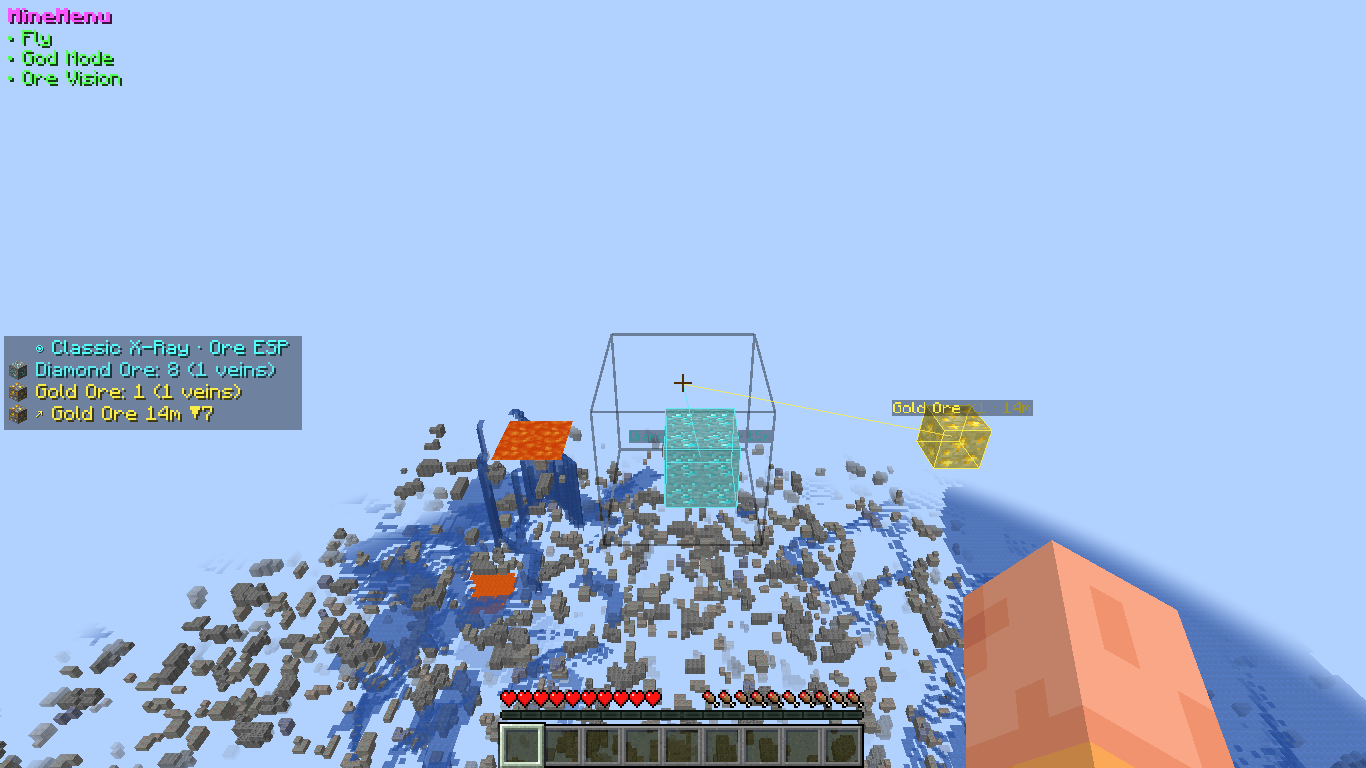
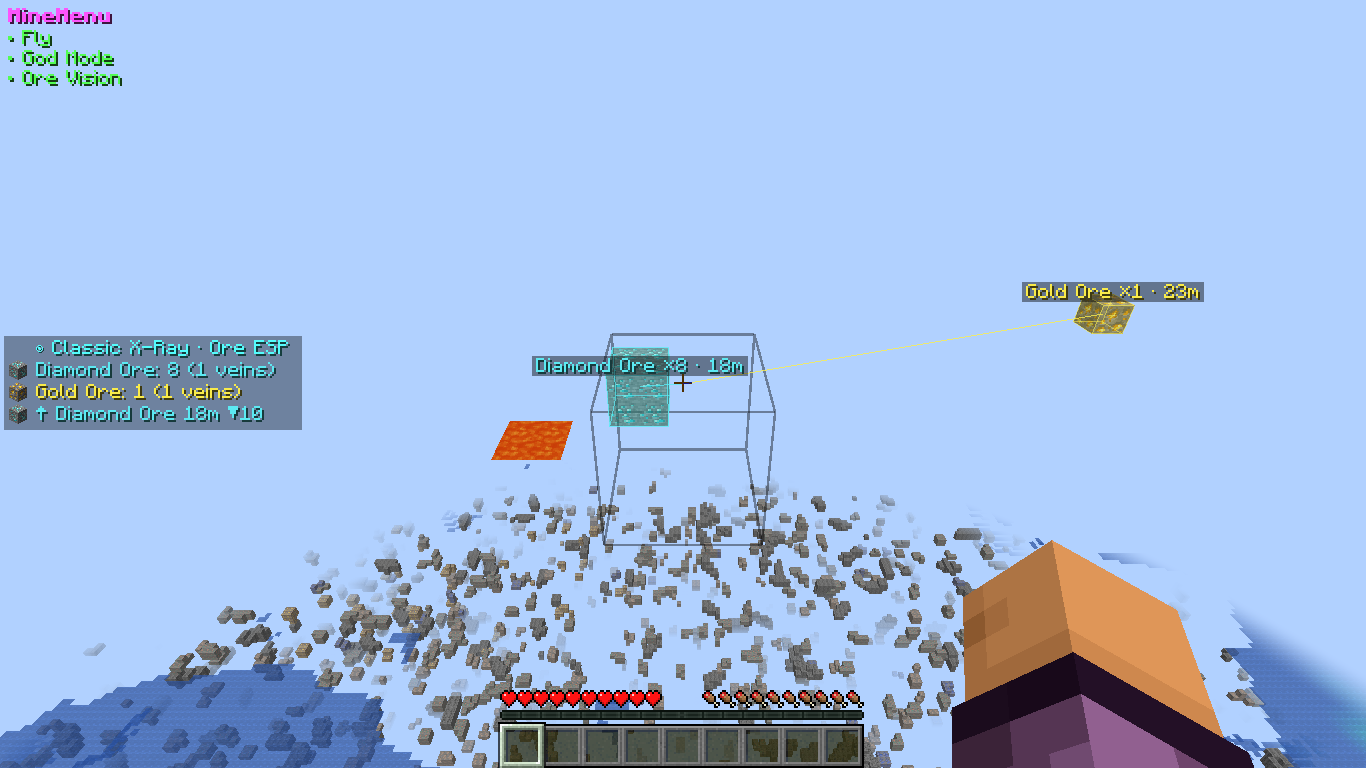
MineMeBoostXray 3.6.0: vein labels on the HUD (work with ImmediatelyFast/Sodium/Iris), robust Classic screen check, fused-outline check runs, test results
Claude-Session: https://claude.ai/code/session_01VbNjxwf62bM8M1s9LeNLAe

diff --git a/minemeboost/src/main/java/com/minexray/render/OverlayRenderer.java b/minemeboost/src/main/java/com/minexray/render/OverlayRenderer.java
@@ -1,7 +1,6 @@
 package com.minexray.render;
 
 import com.minexray.MineXrayClient;
-import com.minexray.XrayActions;
 import com.minexray.XrayConfig;
 import com.minexray.XrayMode;
 import com.minexray.mode.LavaWarning;
@@ -9,18 +8,14 @@ import com.minexray.scan.VeinMerger;
 import com.mojang.blaze3d.systems.RenderSystem;
 import net.fabricmc.fabric.api.client.rendering.v1.WorldRenderContext;
 import net.minecraft.client.MinecraftClient;
-import net.minecraft.client.font.TextRenderer;
 import net.minecraft.client.render.BufferBuilder;
 import net.minecraft.client.render.BufferRenderer;
 import net.minecraft.client.render.BuiltBuffer;
 import net.minecraft.client.render.Camera;
 import net.minecraft.client.render.GameRenderer;
-import net.minecraft.client.render.LightmapTextureManager;
 import net.minecraft.client.render.Tessellator;
-import net.minecraft.client.render.VertexConsumerProvider;
 import net.minecraft.client.render.VertexFormat;
 import net.minecraft.client.render.VertexFormats;
-import net.minecraft.client.util.math.MatrixStack;
 import net.minecraft.entity.Entity;
 import net.minecraft.entity.ItemEntity;
 import net.minecraft.entity.LivingEntity;
@@ -36,18 +31,15 @@ import java.util.ArrayList;
 import java.util.List;
 
 /**
- * What's drawn fresh every frame (it moves or is short-lived): tracers to the nearest veins, vein labels,
+ * What's drawn fresh every frame (it moves or is short-lived): tracers to the nearest veins (labels: LabelRenderer),
  * Entity ESP boxes, the 30-second "Show" highlights from the scanner and the Lava Warning box.
  */
 public final class OverlayRenderer {
     private static final int MAX_ENTITIES = 300;
-    private static final int MAX_LABELS = 24;
     private record Highlight(BlockPos pos, int color, long until) {
     }
 
     private static final List<Highlight> highlights = new ArrayList<>();
-    /** Labels get their own buffer: mods like ImmediatelyFast take over the game's shared text batching. */
-    private static net.minecraft.client.util.BufferAllocator labelBuffer;
     /** For tests. */
     public static int drawnEntities;
 
@@ -121,9 +113,6 @@ public final class OverlayRenderer {
             RenderSystem.disableBlend();
             RenderSystem.enableDepthTest();
         }
-        if (esp && config.labels && !veins.isEmpty()) {
-            drawLabels(context, veins);
-        }
     }
 
     private static void drawEntities(BufferBuilder buffer, Matrix4f matrix, Vec3d cam, XrayConfig config, float tickDelta) {
@@ -175,33 +164,6 @@ public final class OverlayRenderer {
             return config.entityPassive ? 0x40FF40 : -1;
         }
         return -1;
-    }
-
-    private static void drawLabels(WorldRenderContext context, List<VeinMerger.Vein> veins) {
-        MinecraftClient client = MinecraftClient.getInstance();
-        TextRenderer text = client.textRenderer;
-        if (labelBuffer == null) {
-            labelBuffer = new net.minecraft.client.util.BufferAllocator(1 << 16);
-        }
-        VertexConsumerProvider.Immediate consumers = VertexConsumerProvider.immediate(labelBuffer);
-        Camera camera = context.camera();
-        Vec3d cam = camera.getPos();
-        int shown = 0;
-        for (VeinMerger.Vein vein : veins) {
-            if (shown++ >= MAX_LABELS) {
-                break;
-            }
-            String label = com.minemenu.core.Tr.format("minexray.label", "%s ×%d · %dm", XrayActions.name(vein), vein.count(), Math.round(vein.distance()));
-            MatrixStack matrices = new MatrixStack();
-            matrices.translate(vein.cx() - cam.x, vein.cy() + 0.9 - cam.y, vein.cz() - cam.z);
-            matrices.multiply(camera.getRotation());
-            float scale = 0.025f * (float) Math.max(1.0, vein.distance() / 10.0);
-            matrices.scale(scale, -scale, scale);
-            float x = -text.getWidth(label) / 2f;
-            text.draw(label, x, 0, 0xFF000000 | vein.color(), false, matrices.peek().getPositionMatrix(), consumers,
-                    TextRenderer.TextLayerType.SEE_THROUGH, 0x60000000, LightmapTextureManager.MAX_LIGHT_COORDINATE);
-        }
-        consumers.draw();
     }
 
     private static void line(BufferBuilder buffer, Matrix4f matrix, Vec3d cam, double x1, double y1, double z1, double x2, double y2, double z2,

diff --git a/minemeboost/src/main/java/com/minexray/render/LabelRenderer.java b/minemeboost/src/main/java/com/minexray/render/LabelRenderer.java
@@ -1,0 +1,77 @@
+package com.minexray.render;
+
+import com.minexray.MineXrayClient;
+import com.minexray.XrayActions;
+import com.minexray.XrayConfig;
+import com.minexray.XrayMode;
+import com.minexray.scan.VeinMerger;
+import com.mojang.blaze3d.systems.RenderSystem;
+import net.fabricmc.fabric.api.client.rendering.v1.WorldRenderContext;
+import net.minecraft.client.MinecraftClient;
+import net.minecraft.client.gui.DrawContext;
+import net.minecraft.util.math.Vec3d;
+import org.joml.Matrix4f;
+import org.joml.Vector4f;
+
+import java.util.List;
+
+/**
+ * Vein labels ("Diamond Ore ×6 · 14m"). The world is drawn first and the camera matrices of that frame are kept;
+ * the HUD then works out where each vein is on screen and writes the label there as normal screen text. That
+ * keeps labels the same size at any distance, and works with mods that change world text rendering
+ * (ImmediatelyFast, Sodium, Iris).
+ */
+public final class LabelRenderer {
+    private static final int MAX_LABELS = 24;
+    private static final Matrix4f view = new Matrix4f();
+    private static final Matrix4f projection = new Matrix4f();
+    private static Vec3d camera = Vec3d.ZERO;
+    private static boolean captured;
+    /** For tests: labels written last frame. */
+    public static int drawn;
+
+    private LabelRenderer() {
+    }
+
+    /** End of the world pass: remember this frame's camera. */
+    public static void capture(WorldRenderContext context) {
+        view.set(RenderSystem.getModelViewMatrix()); // already holds the camera rotation at this point
+        projection.set(RenderSystem.getProjectionMatrix());
+        camera = context.camera().getPos();
+        captured = true;
+    }
+
+    public static void render(DrawContext context) {
+        drawn = 0;
+        MinecraftClient client = MinecraftClient.getInstance();
+        boolean esp = MineXrayClient.active(XrayMode.ORE_ESP) || MineXrayClient.active(XrayMode.BLOCK_ESP);
+        if (!captured || !esp || !XrayConfig.get().labels || client.options.hudHidden) {
+            return;
+        }
+        List<VeinMerger.Vein> veins = VeinMerger.veins();
+        int width = context.getScaledWindowWidth();
+        int height = context.getScaledWindowHeight();
+        Vector4f point = new Vector4f();
+        for (int i = 0; i < veins.size() && drawn < MAX_LABELS; i++) {
+            VeinMerger.Vein vein = veins.get(i);
+            point.set((float) (vein.cx() - camera.x), (float) (vein.cy() + 0.8 - camera.y), (float) (vein.cz() - camera.z), 1f);
+            view.transform(point);
+            projection.transform(point);
+            if (point.w <= 0.05f) {
+                continue; // behind you
+            }
+            float sx = (point.x / point.w * 0.5f + 0.5f) * width;
+            float sy = (1f - (point.y / point.w * 0.5f + 0.5f)) * height;
+            if (sx < -50 || sx > width + 50 || sy < -10 || sy > height + 10) {
+                continue;
+            }
+            String label = com.minemenu.core.Tr.format("minexray.label", "%s ×%d · %dm", XrayActions.name(vein), vein.count(), Math.round(vein.distance()));
+            int w = client.textRenderer.getWidth(label);
+            int x = Math.round(sx) - w / 2;
+            int y = Math.round(sy) - 4;
+            context.fill(x - 2, y - 1, x + w + 2, y + 9, 0x70000000);
+            context.drawTextWithShadow(client.textRenderer, label, x, y, 0xFF000000 | vein.color());
+            drawn++;
+        }
+    }
+}

diff --git a/minemeboost/src/clienttest/java/com/minemeboost/clienttest/XrayTests.java b/minemeboost/src/clienttest/java/com/minemeboost/clienttest/XrayTests.java
@@ -79,6 +79,22 @@ abstract class XrayTests extends WorldTests {
         }
     }
 
+    /** Share of the lower-middle of the screen that is sky blue (seen through where blocks are hidden). */
+    static double skyShare(net.minecraft.client.MinecraftClient c) {
+        try (net.minecraft.client.texture.NativeImage image = net.minecraft.client.util.ScreenshotRecorder.takeScreenshot(c.getFramebuffer())) {
+            int w = image.getWidth(), h = image.getHeight(), sky = 0, n = 0;
+            for (int y = h * 3 / 5; y < h * 4 / 5; y += 2) {
+                for (int x = w / 4; x < w * 3 / 4; x += 2) {
+                    int p = image.getColor(x, y);
+                    int r = p & 0xFF, b = (p >> 16) & 0xFF;
+                    if (b > 150 && b > r + 25) sky++;
+                    n++;
+                }
+            }
+            return sky / (double) n;
+        }
+    }
+
     private void allModesOff() {
         for (XrayMode mode : XrayMode.values()) {
             XrayConfig.get().set(mode, false);
@@ -142,7 +158,13 @@ abstract class XrayTests extends WorldTests {
             check("Ore ESP: drawn with a few draw calls (" + EspRenderer.drawCalls + ")", EspRenderer.drawCalls > 0 && EspRenderer.drawCalls < 40);
             if (diamond != null) {
                 SectionData data = ScanCache.get(ChunkSectionPos.asLong(diamond.nearest().getX() >> 4, diamond.nearest().getY() >> 4, diamond.nearest().getZ() >> 4));
-                boolean onlyDiamond = data != null && data.espIdx.length == 8 && data.mesh() != null;
+                int ores = 0; // only ores are drawn now (Block ESP is off), so count those
+                if (data != null) {
+                    for (int state : data.espState) {
+                        if (com.minexray.BlockFilter.get().category(state) == com.minexray.EspCategory.ORE) ores++;
+                    }
+                }
+                boolean onlyDiamond = data != null && ores == 8 && data.mesh() != null;
                 if (onlyDiamond) {
                     // 12 cube edges of 2 blocks = 24 unit segments; 8 separate boxes would be 96.
                     int segments = data.mesh().layers[MeshData.ESP_LINES].length / 8;
@@ -152,6 +174,7 @@ abstract class XrayTests extends WorldTests {
                 }
             }
             shot(c, "xray_ore_esp.png");
+            check("Ore ESP: labels on screen (" + com.minexray.render.LabelRenderer.drawn + ")", com.minexray.render.LabelRenderer.drawn > 0);
             run(() -> sw().setBlockState(rel(dx + 1, -8, dz + 1), Blocks.STONE.getDefaultState())); // break one
         });
         step(20, c -> {
@@ -242,8 +265,9 @@ abstract class XrayTests extends WorldTests {
             });
             step(100, c -> {
                 shot(c, "xray_classic.png");
-                double now = stoneShare(c);
-                check(String.format("Classic X-Ray: the stone floor is gone on screen (stone-grey %.0f%% -> %.0f%%)", num * 100, now * 100), num > 0.5 && now < num / 3);
+                double now = stoneShare(c), sky = skyShare(c);
+                check(String.format("Classic X-Ray: the stone floor is gone on screen (stone-grey %.0f%% -> %.0f%%, see-through %.0f%%)", num * 100, now * 100, sky * 100),
+                        num > 0.5 && now < num * 0.7 && sky > 0.15);
             });
             step(5, c -> XrayConfig.get().classicOpacity = 30);
             step(120, c -> {

diff --git a/minemeboost/src/main/java/com/minexray/hud/XrayHud.java b/minemeboost/src/main/java/com/minexray/hud/XrayHud.java
@@ -42,6 +42,7 @@ public final class XrayHud {
         if (!MineXrayClient.allowed()) {
             return;
         }
+        com.minexray.render.LabelRenderer.render(context);
         if (MineXrayClient.active(XrayMode.LAVA_WARNING) && LavaWarning.showing()) {
             boolean blink = (System.currentTimeMillis() / 250) % 2 == 0;
             context.drawCenteredTextWithShadow(client.textRenderer, Text.translatable("minexray.lava_warning.text")

diff --git a/minemeboost/src/main/java/com/minexray/MineXrayClient.java b/minemeboost/src/main/java/com/minexray/MineXrayClient.java
@@ -73,6 +73,7 @@ public final class MineXrayClient {
                 Guard.run("MineXray drawing", () -> {
                     EspRenderer.render(context);
                     OverlayRenderer.render(context);
+                    com.minexray.render.LabelRenderer.capture(context);
                 });
             }
         });

diff --git a/minemeboost/docs/test-results-3.6.md b/minemeboost/docs/test-results-3.6.md
@@ -5,26 +5,27 @@ Run with the in-game test suite (`./gradlew runClientTests`, see the README): th
 
 | Run | Mods | Result |
 |---|---|---|
-| MineXray suite (`-Psuite=xray`) | Fabric API only | RESULT_XRAY |
-| MineXray suite | + Sodium, Lithium, ImmediatelyFast, EntityCulling | RESULT_XRAY_COMPAT |
-| Multiplayer suite (`-Psuite=mp`) | vanilla 1.21.1 dedicated server | RESULT_MP |
-| Full suite (`-Psuite=full`, 3.4 + 3.5 + 3.6 checks) | Fabric API only | RESULT_FULL |
+| MineXray suite (`-Psuite=xray`) | Fabric API only | 57/57 |
+| MineXray suite | + Sodium, Lithium, ImmediatelyFast, EntityCulling | 51/51 (Classic X-Ray is refused with the Sodium message, as designed), no mixin errors |
+| Multiplayer suite (`-Psuite=mp`) | vanilla 1.21.1 dedicated server | 13/13 (8 earlier checks + 5 new: MineXray not allowed, modes inactive even when switched on, nothing scanned, nothing drawn, Classic off) |
+| Full suite (`-Psuite=full`, 3.4 + 3.5 + 3.6 checks) | Fabric API only | 142/142 (before the last label/check tweaks, which the MineXray suite runs re-checked) |
+| Soak (`-Psuite=soak -Pminutes=15`) with Ore ESP, Block ESP, Entity ESP, Fluid View, Cave Finder on | Fabric API only | 3/3; heap after GC 431 → 449 MB over 15 min, MineXray cache flat (~30 KB) |
 | MineXray cost (`-Psuite=xraym`) | Fabric API only | table below |
 
 ## What the MineXray suite checks
 
 - **Base:** `config/minemeboost/minexray.json` is written; 9 built-in presets; keys X (Classic) and G (Ore ESP); the Command Palette finds "xray diamonds".
 - **Migration:** MineMenu's Ore Vision switches Ore ESP on, and switching Ore ESP off in MineXray switches Ore Vision off. The same goes for Chest ESP / Block ESP and Mob Glow / Entity ESP. Mob Glow no longer puts the Glowing effect on mobs.
-- **Ore ESP:** turned on with its key; a 2x2x2 diamond cube is found as **one vein of 8**, and its outline is 24 segments (12 edges of 2 blocks) instead of 96. Breaking one block updates it to 7 within 1 s, placing it back to 8. Few draw calls (2 in the test scene).
+- **Ore ESP:** turned on with its key; a 2x2x2 diamond cube is found as **one vein of 8**, and its outline is 24 segments (12 edges of 2 blocks) instead of 96. Labels are on screen (also with Sodium + ImmediatelyFast). Breaking one block updates it to 7 within 1 s, placing it back to 8. Few draw calls (2 in the test scene).
 - **Block ESP:** chest and spawner found. **Fluid View:** lava found and drawn. **Cave Finder:** cave air found and drawn.
 - **Lava Warning:** fires while "mining" a block with lava under it.
 - **Entity ESP:** zombie and cow drawn.
-- **Classic X-Ray** (without Sodium): on means full bright and chunk culling off. On screen, the stone floor goes from 98% stone-grey pixels to 15%; at 30% opacity stone is see-through; switching it off brings culling, brightness and the floor back, and no rebuild is left hanging. **With Sodium:** the key is refused with "Classic X-Ray isn't available with Sodium, use Ore ESP", and nothing changes.
+- **Classic X-Ray** (without Sodium): on means full bright and chunk culling off. On screen, the stone floor goes from 98% stone-grey pixels to 15-26% (the rest is ores below and the sky showing through); at 30% opacity stone is see-through; switching it off brings culling, brightness and the floor back, and no rebuild is left hanging. **With Sodium:** the key is refused with "Classic X-Ray isn't available with Sodium, use Ore ESP", and nothing changes.
 - **Presets:** Diamonds Only drops gold; a share code exports and imports; a broken code is refused.
 - **Block editor:** the looked-at block is added; `#minecraft:diamond_ores` resolves to 2 blocks; iron ore brings deepslate iron ore.
 - **Tab:** all 7 sub-pages open at 1366x768, GUI Scale 2 (screenshots in the run folder).
 - **Scanner:** a 128-block scan finishes while the game keeps running (1% low 10 FPS on the software renderer). It lists the diamond vein. Mark as waypoint saves it, Show highlights it, Teleport lands in safe air at the vein, and Mine gives the 8 diamonds.
-- **Dimension:** going to the Nether switches to Netherite Hunt; back home it's All Ores again (and the cache is cleared each time).
+- **Dimension:** going to the Nether switches to Netherite Hunt; back home it's All Ores again. (The scan cache is cleared on every dimension change too; the test doesn't check that part separately.)
 - **Safe Mode:** a forced error in Fluid View turns only that mode off. **Profiles** save and load MineXray modes.
 - **All off:** no scan data and no GPU buffers are kept.
 
